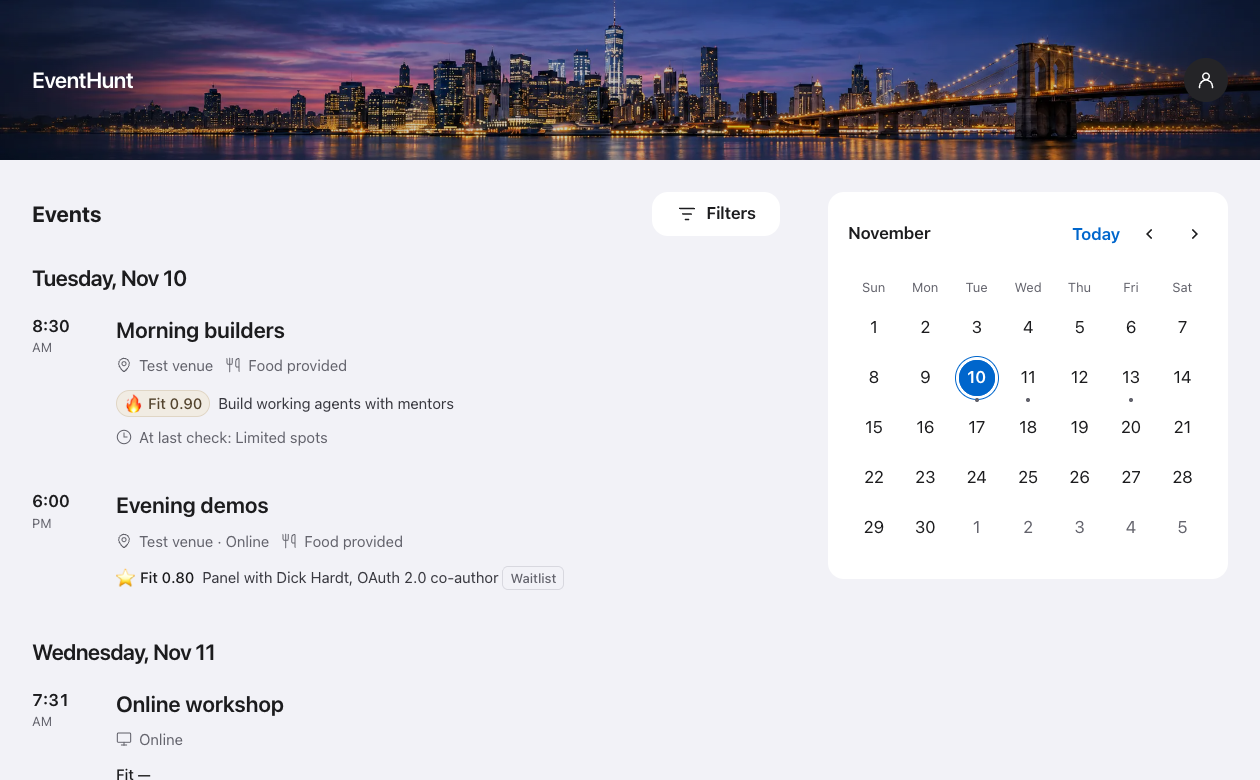
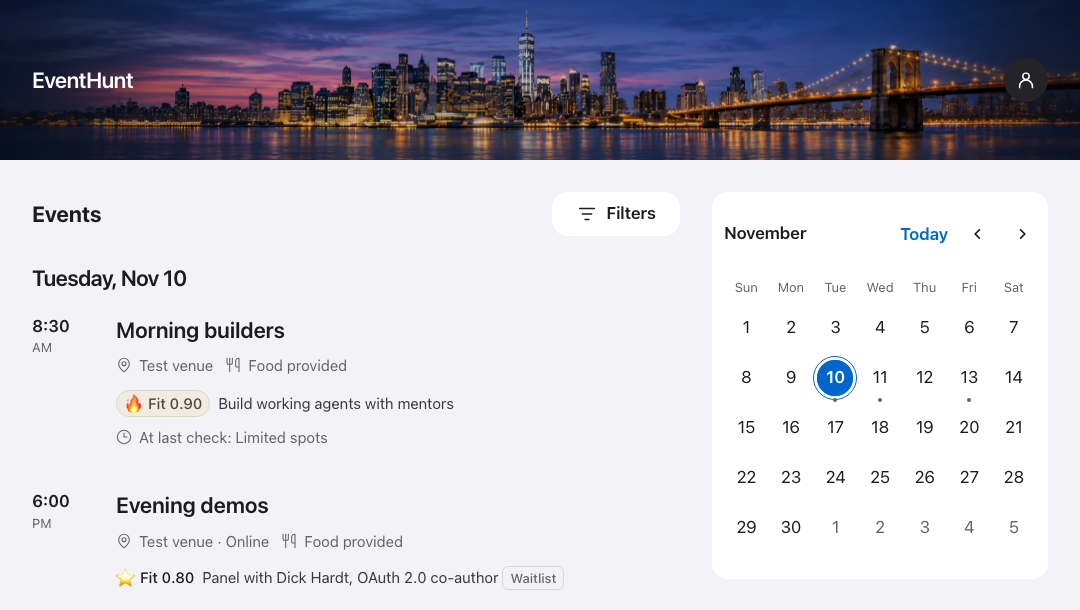
Show a full-width desktop screenshot

diff --git a/README.md b/README.md
@@ -11,20 +11,9 @@ See what stands out, spot waitlists, and go straight to the organizer.
 
 </div>
 
-## Screenshots
+## Screenshot
 
-<table>
-<tr>
-<td width="50%">
-<p align="center"><strong>Desktop</strong></p>
-<img src="doc/assets/discovery-desktop.png" alt="Desktop calendar and event agenda with sample listings" />
-</td>
-<td width="50%">
-<p align="center"><strong>Mobile</strong></p>
-<img src="doc/assets/discovery-mobile.png" alt="Mobile calendar and event cards with sample listings" />
-</td>
-</tr>
-</table>
+![Event Hunt desktop calendar and event agenda with sample listings](doc/assets/discovery-desktop.png)
 
 ## Agent workflow
 

diff --git a/doc/design/README.md b/doc/design/README.md
@@ -3,4 +3,4 @@
 - [Design process](app-design-process.md)
 - [Primary task and user flow](primary-user-task-and-user-flow.md)
 - [Web design system](design-system.md)
-- [Desktop and mobile demo screenshots](../../README.md#screenshots)
+- [Desktop demo screenshot](../../README.md#screenshot)
